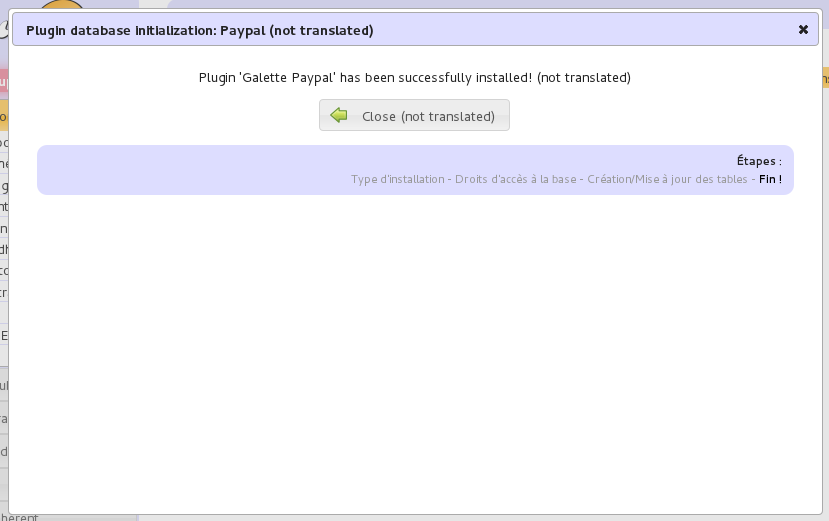
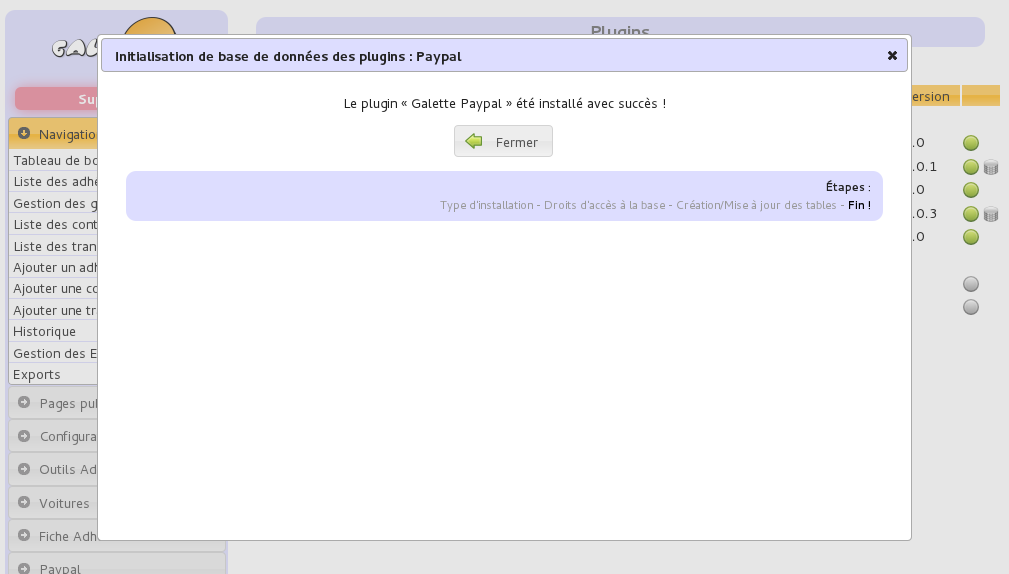
Mise à jour des captures après traduction

diff --git a/source/plugins/index.rst b/source/plugins/index.rst
@@ -47,27 +47,27 @@ Si le plugin requiert une base de données pour son fonctionnement, vous pourrez
 Dans un premier temps, vous aurez à sélectionner le type d'installation (installation ou mise à jour - ça ne vous rapelle rien ? ;-)) :
 
 .. image:: ../_styles/static/images/usermanual/plugins_install_step1.png
-   :scale: 75%
+   :scale: 50%
    :align: center
    :alt: Initialisation de la base de données d'un plugin, étape 1 : sélection d'un type d'installation
 
 Les droits sur la base de données seront ensuite vérifiés. Contrairement à l'installation du Galette ; aucune information concernant la base de données ne vous sera demandée, puisque les informations en question sont déjà disponibles (le simple fait d'accéder à l'interface des plugins confirme cela) :
 
 .. image:: ../_styles/static/images/usermanual/plugins_install_step2.png
-   :scale: 75%
+   :scale: 50%
    :align: center
    :alt: Initialisation de la base de données d'un plugin, étape 2 : vérification des droits de la base
 
 Les scripts en eux-mêmes seront alors exécutés, si les droits sont corrects :
 
 .. image:: ../_styles/static/images/usermanual/plugins_install_step3.png
-   :scale: 75%
+   :scale: 50%
    :align: center
    :alt: Initialisation de la base de données d'un plugin, étape 3 : exécution des scripts
 
 Et voilà, c'est fini !
 
 .. image:: ../_styles/static/images/usermanual/plugins_install_step4.png
-   :scale: 75%
+   :scale: 50%
    :align: center
    :alt: Initialisation de la base de données d'un plugin, étape 4 : fin :-)
